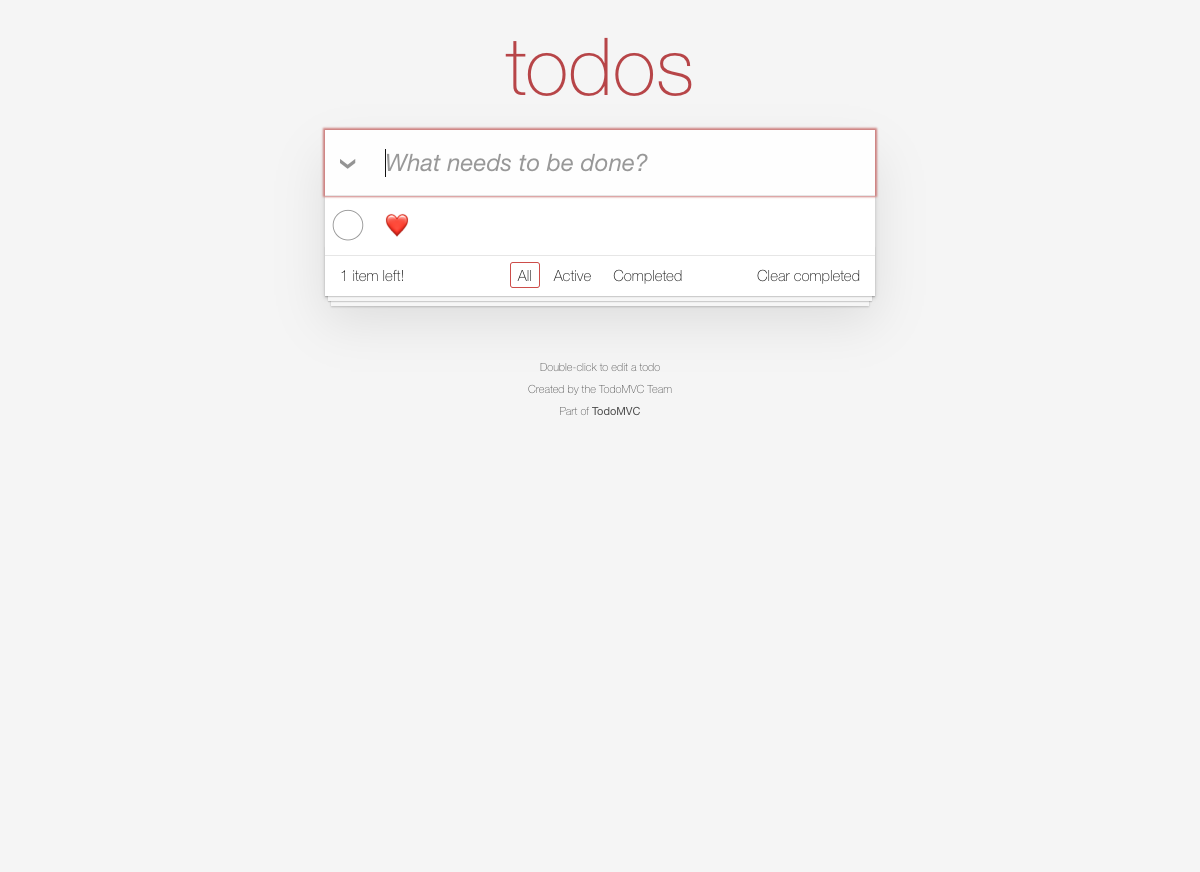
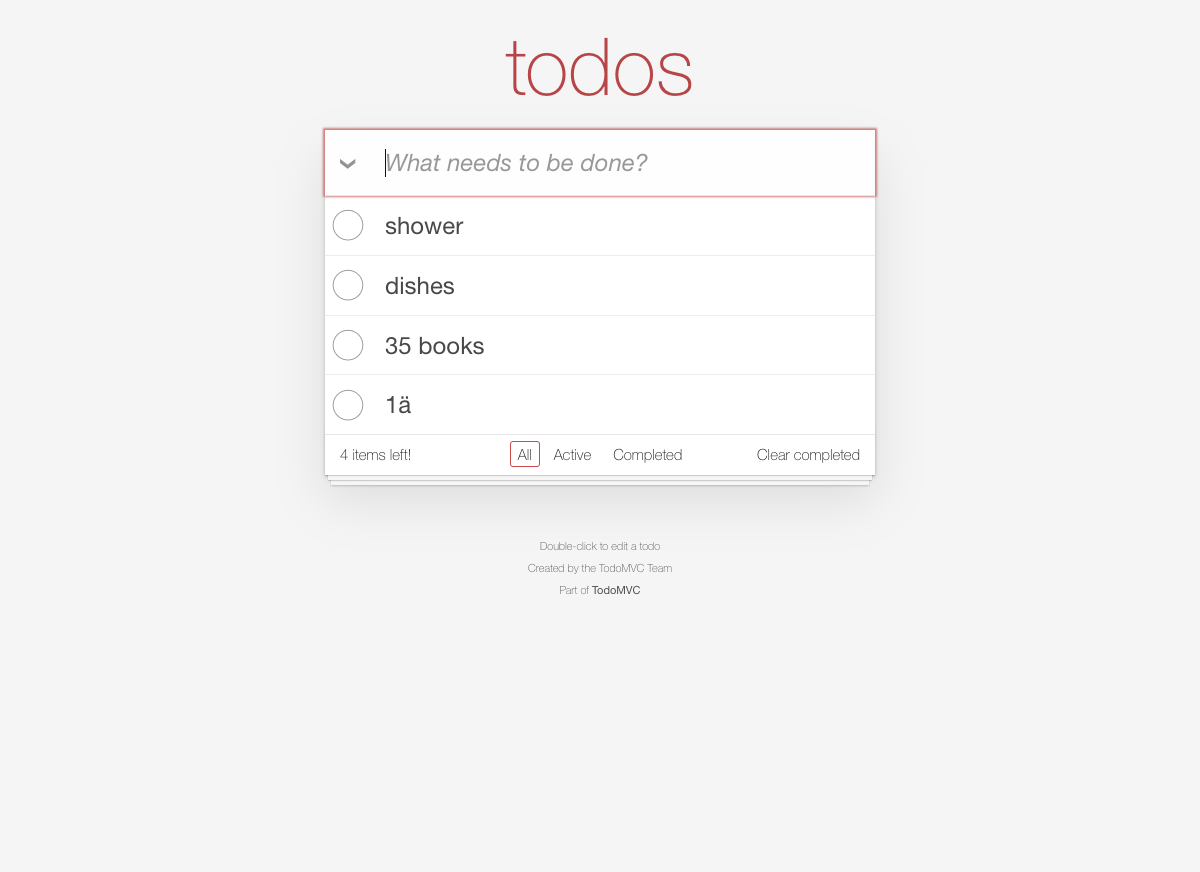
addEmoji tests

diff --git a/src/test/java/ToDoTest.java b/src/test/java/ToDoTest.java
@@ -10,6 +10,7 @@ public class ToDoTest {
 
     @BeforeAll
     static void launchBrowser() {
+
         driver = new ChromeDriver();
     }
 
@@ -24,7 +25,13 @@ public class ToDoTest {
     public void addEmoji() throws Exception {
         ToDoPage toDoPage = new ToDoPage(driver);
         toDoPage.navigateToSite();
-        toDoPage.addNewTodo("❤");
+
+        toDoPage.addNewTodo("shower");
+        toDoPage.addNewTodo("dishes");
+        toDoPage.addNewTodo("35 books");
+        toDoPage.addNewTodo("1");
+        toDoPage.addNewTodo("ä");
+        Thread.sleep(3000);
         toDoPage.takeScreenshot(driver, "emoji.png");
     }
 
@@ -32,6 +39,7 @@ public class ToDoTest {
 
     @AfterAll
     static void closeBrowser() {
+
         driver.quit();
     }
 }

diff --git a/src/test/java/ToDoPage.java b/src/test/java/ToDoPage.java
@@ -7,7 +7,7 @@ public class ToDoPage {
 
     protected WebDriver driver;
 //    public final By toDoInputBoxBy = By.id("input-box");
-public final By inputBoxBy = By.id("todo-input");
+public final By inputBoxBy = By.className("new-todo");
 
     public ToDoPage(WebDriver driver) {
         this.driver = driver;
